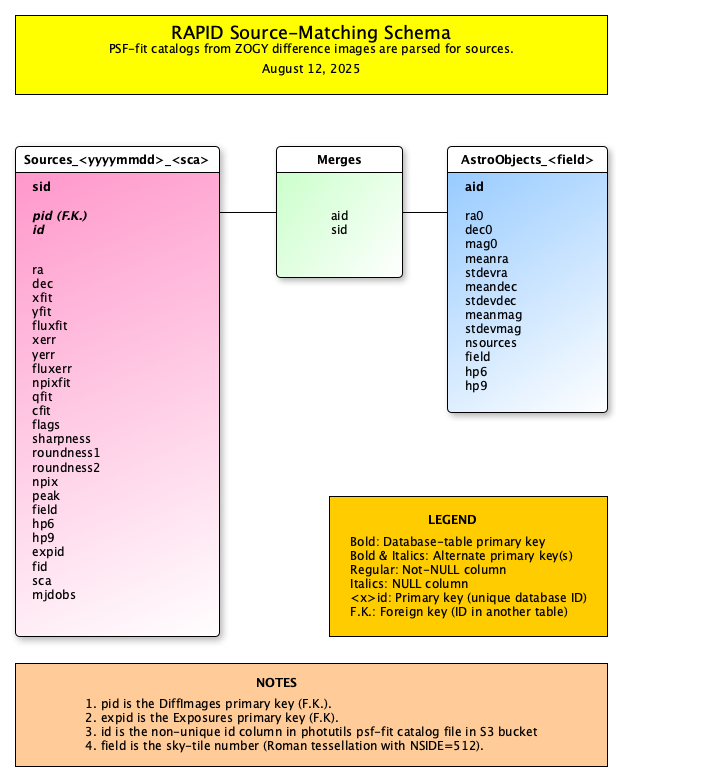
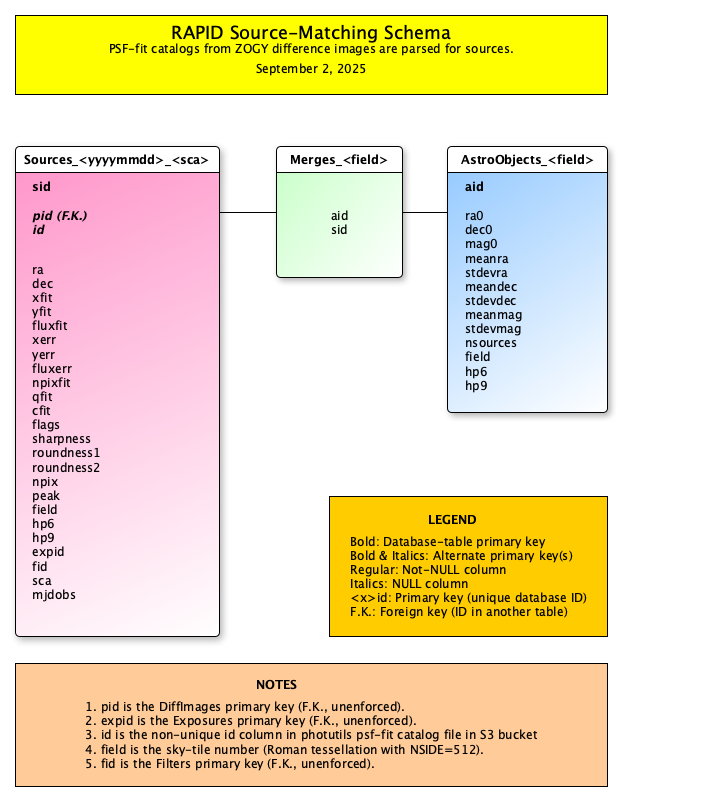
Added more info, and made corrections.

diff --git a/docs/source/db/db.rst b/docs/source/db/db.rst
@@ -194,10 +194,21 @@ A diagram of the source-matching database-table schema is given as follows:
 
 .. image:: source_matching.png
 
-A sources table is created for each processing date and SCA.
+As indicated in the diagram, there will be several Sources tables
+named differently (according to the indicated parameters).
+Same for Merges and AstroObjects tables.
+This is to partition the data into manageable chunks.
+The partitioning scheme for these tables are discussed below in more detail.
+
+Database-table inheritance is or can be used to tie child tables to the parent table.
+At this time, only the Sources tables utilize inheritance.  This is because the source ID
+in the Merges table can be most easily associated with a record in the correct child-table name
+by querying the Sources parent table.
+
+A Sources child table is created for each processing date and SCA.
 Thus the partitioning scheme for sources is by time and chip number.
 This design strikes a balance between partitioning for parallel processing
-and non-proliferation of sources tables.  It is anticipated that most of
+and non-proliferation of Sources tables.  It is anticipated that most of
 sources to be matched are spurious, and so this partitioning scheme will
 have to be reassessed after the actual number of sources involved can be
 better estimated.
@@ -209,10 +220,13 @@ Merges tables are also created for each Roman-tessellation sky tile.
 Thus the partitioning scheme for astronomical objects and associated cross-matching with
 sources (merges) is by sky position.
 
-Sources and AstroObjects tables are cross matched for the appropriate partitions,
+Sources and AstroObjects tables are cross-matched for the appropriate partitions,
 in observation-date-time order, using the join function from the Q3C PostgreSQL-extension,
 and records in the associated Merges tables are populated.
 
 .. note::
    Sources that are NOT matched become new records in the AstroObjects tables.
 
+A given Sources child table can contain records for different fields, filters, and exposures.
+Therefore, it will have to be cross-matched with itself, as well as with other Sources child
+tables with the same processing date (all SCAs).
